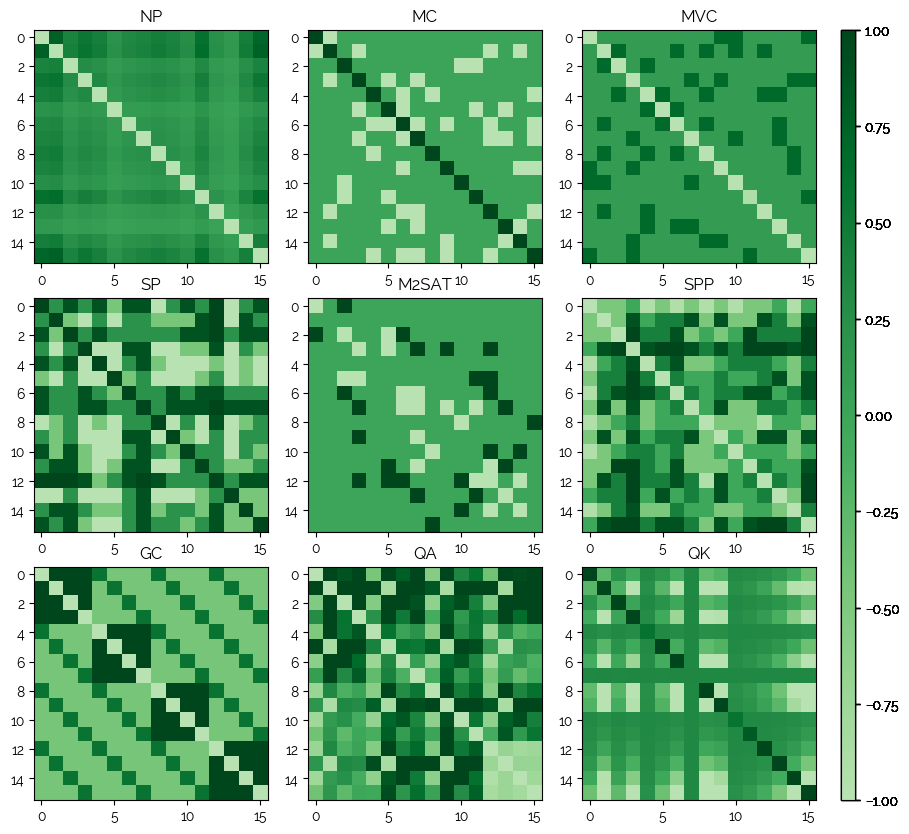
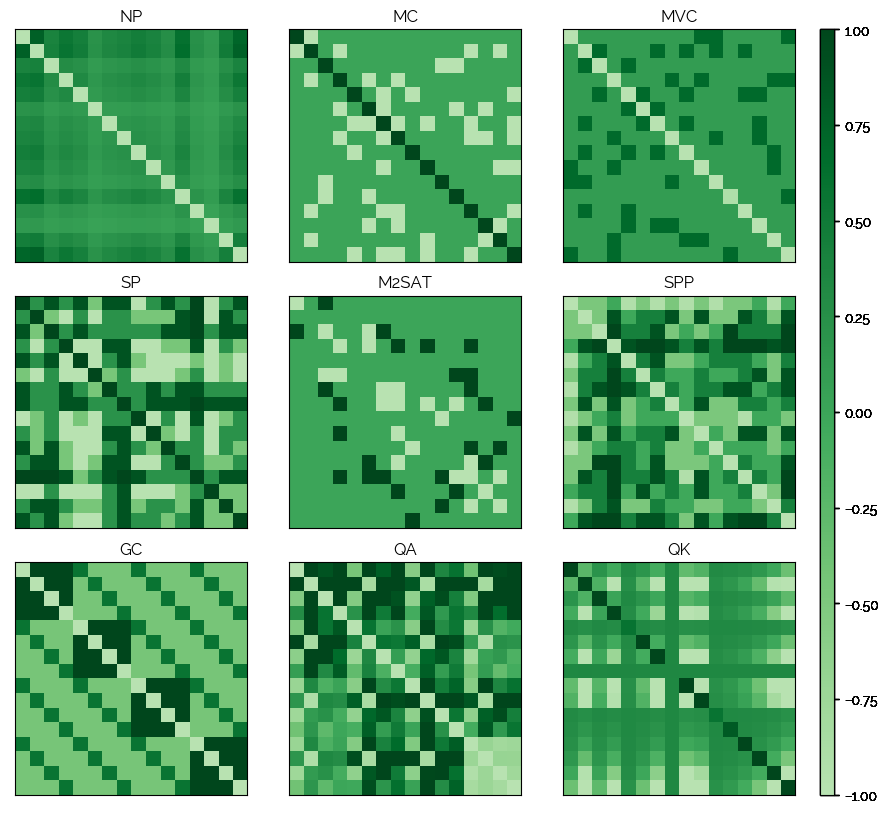
Remove x/yticks

diff --git a/qubo_nn/plots/plot_qubo_map.py b/qubo_nn/plots/plot_qubo_map.py
@@ -40,6 +40,8 @@ def plot(data, fname):
             im = axs[i][j].imshow(data[idx], cmap=cmap_mod, vmin=-1, vmax=1)
             cbar = axs[i][j].figure.colorbar(im, ax=axs, aspect=60)
             axs[i][j].set_title(problems[idx])
+            axs[i][j].set_xticks([])
+            axs[i][j].set_yticks([])
     fig.savefig(fname + ".png", bbox_inches='tight')
     plt.show()
 
